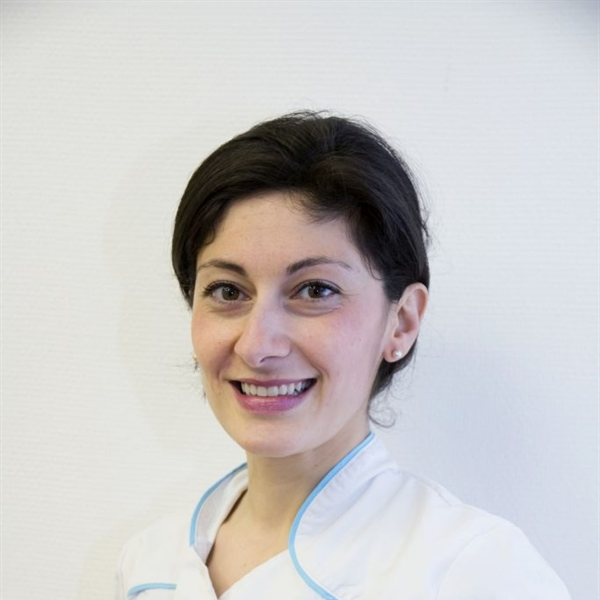
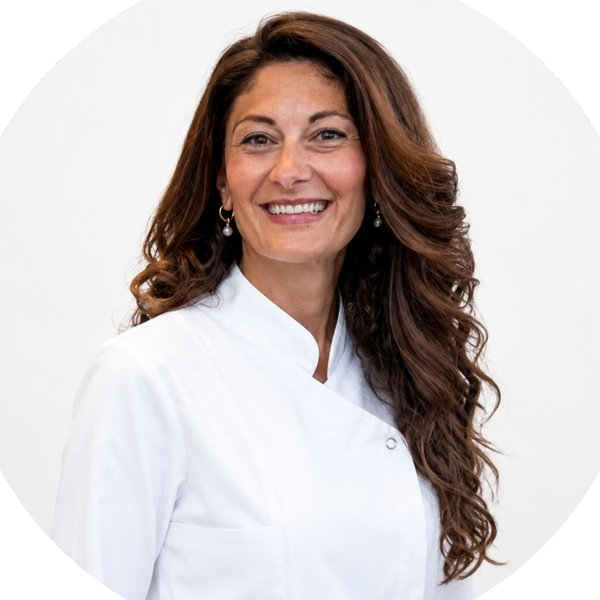
Recente updates: vrijdag bereikbaar, ronde Ceta-foto, kleinere hero-titel in primaire kleur, contactblok rechts, spoednummer 0900 1515

diff --git a/team.html b/team.html
@@ -92,7 +92,7 @@
         </article>
         <article class="team-card has-photo" data-role="hygienist" data-bio="bio-marjolijn">
           <div class="avatar"><img src="assets/img/team/marjolijn.jpg" alt="Marjolijn Bloedjes" loading="lazy" /></div>
-          <div class="info"><h4>Marjolijn Bloedjes</h4><span>Mondhygiënist</span><div class="days">Ma — Do</div></div>
+          <div class="info"><h4>Marjolijn Bloedjes</h4><span>Mondhygiënist</span><div class="days">Ma · Do</div></div>
         </article>
         <article class="team-card has-photo" data-role="hygienist" data-bio="bio-ashley">
           <div class="avatar"><img src="assets/img/team/ashley.jpg" alt="Ashley Jin" loading="lazy" /></div>
@@ -141,7 +141,7 @@
 <div class="modal-backdrop" id="bio-geert"><div class="modal"><button class="close btn btn-ghost" aria-label="Sluiten">×</button><img src="assets/img/team/geert.jpg" alt="Geert Bruins" class="bio-photo" /><span class="pill pill-mint">Tandarts</span><h3 style="margin-top:12px;">Geert Bruins</h3><p>Algemeen tandarts met ruime ervaring in restauratieve en cosmetische tandheelkunde.</p><p><strong>Aanwezig:</strong> dinsdag en vrijdag.</p></div></div>
 <div class="modal-backdrop" id="bio-claire"><div class="modal"><button class="close btn btn-ghost" aria-label="Sluiten">×</button><img src="assets/img/team/claire.jpg" alt="Claire Olthoff" class="bio-photo" /><span class="pill pill-mint">Tandarts</span><h3 style="margin-top:12px;">Claire Olthoff</h3><p>Algemeen tandarts met aandacht voor preventieve en restauratieve zorg in een ontspannen sfeer.</p><p><strong>Aanwezig:</strong> dinsdag en woensdag.</p></div></div>
 <div class="modal-backdrop" id="bio-ceta"><div class="modal"><button class="close btn btn-ghost" aria-label="Sluiten">×</button><img src="assets/img/team/ceta.jpg" alt="Ceta Cirio" class="bio-photo" /><span class="pill pill-mint">Mondhygiënist · Praktijkmanager</span><h3 style="margin-top:12px;">Ceta Cirio</h3><p>Mondhygiënist en praktijkmanager. Eerste aanspreekpunt voor de dagelijkse gang van zaken in de praktijk.</p><p><strong>Aanwezig:</strong> maandag tot en met vrijdag.</p></div></div>
-<div class="modal-backdrop" id="bio-marjolijn"><div class="modal"><button class="close btn btn-ghost" aria-label="Sluiten">×</button><img src="assets/img/team/marjolijn.jpg" alt="Marjolijn Bloedjes" class="bio-photo" /><span class="pill pill-mint">Mondhygiënist</span><h3 style="margin-top:12px;">Marjolijn Bloedjes</h3><p>Mondhygiënist met focus op preventie en initiële parodontale therapie.</p><p><strong>Aanwezig:</strong> maandag tot en met donderdag.</p></div></div>
+<div class="modal-backdrop" id="bio-marjolijn"><div class="modal"><button class="close btn btn-ghost" aria-label="Sluiten">×</button><img src="assets/img/team/marjolijn.jpg" alt="Marjolijn Bloedjes" class="bio-photo" /><span class="pill pill-mint">Mondhygiënist</span><h3 style="margin-top:12px;">Marjolijn Bloedjes</h3><p>Mondhygiënist met focus op preventie en initiële parodontale therapie.</p><p><strong>Aanwezig:</strong> maandag en donderdag.</p></div></div>
 <div class="modal-backdrop" id="bio-ashley"><div class="modal"><button class="close btn btn-ghost" aria-label="Sluiten">×</button><img src="assets/img/team/ashley.jpg" alt="Ashley Jin" class="bio-photo" /><span class="pill pill-mint">Mondhygiënist</span><h3 style="margin-top:12px;">Ashley Jin</h3><p>Mondhygiënist, verzorgt periodieke gebitsreinigingen en mondhygiëne-instructies.</p><p><strong>Aanwezig:</strong> maandag, woensdag en vrijdag.</p></div></div>
 <div class="modal-backdrop" id="bio-kirsten"><div class="modal"><button class="close btn btn-ghost" aria-label="Sluiten">×</button><img src="assets/img/team/kirsten.jpg" alt="Kirsten Pols" class="bio-photo" /><span class="pill pill-mint">Preventie-assistent</span><h3 style="margin-top:12px;">Kirsten Pols</h3><p>Preventie-assistent. Begeleidt patiënten met poetsinstructies en preventieve reiniging.</p><p><strong>Aanwezig:</strong> maandag, dinsdag en woensdag.</p></div></div>
 <div class="modal-backdrop" id="bio-nora"><div class="modal"><button class="close btn btn-ghost" aria-label="Sluiten">×</button><img src="assets/img/team/nora.jpg" alt="Nora de Haan" class="bio-photo" /><span class="pill pill-mint">Assistent</span><h3 style="margin-top:12px;">Nora de Haan</h3><p>Tandartsassistent — assisteert tijdens behandelingen en zorgt voor uw comfort in de stoel.</p><p><strong>Aanwezig:</strong> dinsdag tot en met vrijdag.</p></div></div>

diff --git a/index.html b/index.html
@@ -113,8 +113,8 @@
           <div>
             <div class="meta">Bereikbaar</div>
             <dl class="hours">
-              <div><dt>Ma — Do</dt><dd>08:00 — 12:30<br/>13:15 — 17:00</dd></div>
-              <div><dt>Vr — Zo</dt><dd>Niet bereikbaar</dd></div>
+              <div><dt>Ma — Vr</dt><dd>08:00 — 12:30<br/>13:15 — 17:00</dd></div>
+              <div><dt>Za — Zo</dt><dd>Niet bereikbaar</dd></div>
             </dl>
           </div>
         </aside>
@@ -203,7 +203,7 @@
           <article class="team-card has-photo"><div class="avatar"><img src="assets/img/team/geert.jpg" alt="Geert Bruins" loading="lazy" /></div><div class="info"><h4>Geert Bruins</h4><span>Tandarts</span><div class="days">Di · Vr</div></div></article>
           <article class="team-card has-photo"><div class="avatar"><img src="assets/img/team/claire.jpg" alt="Claire Olthoff" loading="lazy" /></div><div class="info"><h4>Claire Olthoff</h4><span>Tandarts</span><div class="days">Di · Wo</div></div></article>
           <article class="team-card has-photo"><div class="avatar"><img src="assets/img/team/ceta.jpg" alt="Ceta Cirio" loading="lazy" /></div><div class="info"><h4>Ceta Cirio</h4><span>Mondhygiënist / praktijkmanager</span><div class="days">Ma — Vr</div></div></article>
-          <article class="team-card has-photo"><div class="avatar"><img src="assets/img/team/marjolijn.jpg" alt="Marjolijn Bloedjes" loading="lazy" /></div><div class="info"><h4>Marjolijn Bloedjes</h4><span>Mondhygiënist</span><div class="days">Ma — Do</div></div></article>
+          <article class="team-card has-photo"><div class="avatar"><img src="assets/img/team/marjolijn.jpg" alt="Marjolijn Bloedjes" loading="lazy" /></div><div class="info"><h4>Marjolijn Bloedjes</h4><span>Mondhygiënist</span><div class="days">Ma · Do</div></div></article>
           <article class="team-card has-photo"><div class="avatar"><img src="assets/img/team/ashley.jpg" alt="Ashley Jin" loading="lazy" /></div><div class="info"><h4>Ashley Jin</h4><span>Mondhygiënist</span><div class="days">Ma · Wo · Vr</div></div></article>
           <article class="team-card has-photo"><div class="avatar"><img src="assets/img/team/kirsten.jpg" alt="Kirsten Pols" loading="lazy" /></div><div class="info"><h4>Kirsten Pols</h4><span>Preventie-assistent</span><div class="days">Ma · Di · Wo</div></div></article>
           <article class="team-card has-photo"><div class="avatar"><img src="assets/img/team/nora.jpg" alt="Nora de Haan" loading="lazy" /></div><div class="info"><h4>Nora de Haan</h4><span>Tandartsassistent</span><div class="days">Di — Vr</div></div></article>
@@ -227,7 +227,7 @@
           <div class="row"><dt>Adres</dt><dd>Mient 55<br/>2141 TB Vijfhuizen</dd></div>
           <div class="row"><dt>Telefoon</dt><dd><a href="tel:0235583046">023 558 30 46</a></dd></div>
           <div class="row"><dt>E-mail</dt><dd><a href="mailto:tandartsenpraktijkvijfhuizen@gmail.com">tandartsenpraktijkvijfhuizen@gmail.com</a></dd></div>
-          <div class="row"><dt>Bereikbaar</dt><dd>Ma — Do · 08:00 — 12:30 · 13:15 — 17:00<br/>Vr — Zo · Niet bereikbaar</dd></div>
+          <div class="row"><dt>Bereikbaar</dt><dd>Ma — Vr · 08:00 — 12:30 · 13:15 — 17:00<br/>Za — Zo · Niet bereikbaar</dd></div>
           <div class="row"><dt>Spoed</dt><dd>Buiten openingstijden — <a href="spoed.html">avond- en weekenddienst</a></dd></div>
         </dl>
         <div class="location-map" data-reveal="right">

diff --git a/assets/css/pages.css b/assets/css/pages.css
@@ -7,16 +7,17 @@
 }
 .hero-grid {
   display: grid;
-  grid-template-columns: 1.4fr 1fr;
+  grid-template-columns: minmax(0, 1.4fr) auto;
   gap: 64px;
   align-items: end;
   min-height: 70vh;
 }
 .hero h1 {
-  font-size: clamp(48px, 8vw, 120px);
-  line-height: .95;
+  font-size: clamp(40px, 5.5vw, 72px);
+  line-height: .98;
   letter-spacing: -.04em;
   margin-bottom: 24px;
+  color: var(--primary-700);
 }
 .hero h1 .line { display: block; overflow: hidden; }
 .hero h1 .line span { display: inline-block; }
@@ -184,19 +185,19 @@
   background: var(--paper-2);
   border-radius: var(--r-lg);
   padding: 24px;
-  aspect-ratio: 3/4;
-  display: flex; flex-direction: column; justify-content: space-between;
+  display: flex; flex-direction: column; justify-content: flex-start; gap: 20px;
   position: relative; overflow: hidden;
   transition: transform var(--t-med) var(--ease);
 }
 .team-card:hover { transform: translateY(-6px); }
 .team-card .avatar {
-  flex: 1; min-height: 0; display: grid; place-items: center; overflow: hidden;
+  flex: none; width: 100%; aspect-ratio: 1; min-height: 0; overflow: hidden;
+  display: grid; place-items: center; border-radius: 50%;
   font-family: var(--font-display); font-style: italic; font-size: 96px;
   color: var(--ink-900); opacity: .15;
 }
 .team-card.has-photo .avatar { opacity: 1; }
-.team-card.has-photo .avatar img { width: 100%; height: 100%; object-fit: cover; border-radius: var(--r-md); }
+.team-card.has-photo .avatar img { width: 100%; height: 100%; object-fit: cover; border-radius: 50%; }
 .team-card .info h4 { font-family: var(--font-display); font-size: 22px; color: var(--ink-900); margin: 0 0 4px; text-transform: none; letter-spacing: -.01em; font-weight: 400; }
 .team-card .info span { font-size: 13px; color: var(--ink-500); }
 .team-card .days { font-size: 11px; letter-spacing: .12em; text-transform: uppercase; color: var(--primary-700); margin-top: 8px; }
@@ -224,7 +225,6 @@
 .team-scroll::-webkit-scrollbar-thumb { background: var(--line-2); border-radius: 999px; }
 .team-scroll .team-card {
   flex: 0 0 calc((100% - 48px) / 4);
-  aspect-ratio: 3/4;
   scroll-snap-align: start;
 }
 .team-scroll-btn {
@@ -323,7 +323,7 @@
 .team-grid {
   display: grid; grid-template-columns: repeat(3, 1fr); gap: 24px;
 }
-.team-grid .team-card { aspect-ratio: 4/5; }
+.team-grid .team-card { aspect-ratio: auto; }
 @media (max-width: 900px) { .team-grid { grid-template-columns: 1fr 1fr; } }
 @media (max-width: 600px) { .team-grid { grid-template-columns: 1fr; } }
 
@@ -718,7 +718,7 @@ iframe { max-width: 100%; }
 /* Tablet (≤1024px) */
 @media (max-width: 1024px) {
   .hero-grid { gap: 40px; }
-  .hero h1 { font-size: clamp(40px, 7vw, 84px); }
+  .hero h1 { font-size: clamp(36px, 6vw, 60px); }
   .feature-2col { gap: 48px; }
   .stats { grid-template-columns: repeat(2, 1fr); }
   .location-info .row { grid-template-columns: 100px 1fr; gap: 16px; }

diff --git a/spoed.html b/spoed.html
@@ -64,14 +64,14 @@
         <h2 style="margin:0;">Bel direct onze praktijk.</h2>
         <p style="margin:0;color:var(--ink-700);">Bij spoed proberen wij u dezelfde dag nog te helpen. Bel zo vroeg mogelijk — de balie plant u dan in op een spoedmoment.</p>
         <a class="phone-big" href="tel:0235583046">023 558 30 46</a>
-        <p style="margin:0;color:var(--ink-500);font-size:14px;">Maandag t/m donderdag · 08:00 — 12:30 · 13:15 — 17:00</p>
+        <p style="margin:0;color:var(--ink-500);font-size:14px;">Maandag t/m vrijdag · 08:00 — 12:30 · 13:15 — 17:00</p>
       </div>
 
       <div class="emergency-card" data-reveal style="border-left-color:var(--primary);">
         <span class="eyebrow" style="color:var(--primary);">Buiten openingstijden — avond, nacht &amp; weekend</span>
         <h2 style="margin:0;">De Mondzorgpoli Amsterdam.</h2>
         <p style="margin:0;color:var(--ink-700);">Voor spoedgevallen 's avonds, 's nachts of in het weekend kunt u terecht bij de regionale spoeddienst De Mondzorgpoli in Amsterdam. Bel altijd eerst voor een afspraak.</p>
-        <a class="phone-big" href="tel:0882632727">088 263 27 27</a>
+        <a class="phone-big" href="tel:09001515">0900 1515</a>
         <dl style="display:grid;gap:8px;margin:0;font-size:15px;">
           <div style="display:grid;grid-template-columns:140px 1fr;gap:8px;"><dt style="color:var(--ink-500);">Adres</dt><dd style="margin:0;">Louwesweg 6, 1066 EC Amsterdam</dd></div>
           <div style="display:grid;grid-template-columns:140px 1fr;gap:8px;"><dt style="color:var(--ink-500);">E-mail</dt><dd style="margin:0;"><a href="mailto:amsterdam@mondzorgpoli.nl" style="color:var(--primary);">amsterdam@mondzorgpoli.nl</a></dd></div>
@@ -110,7 +110,7 @@
         </div>
         <div class="actions">
           <a class="btn btn-emerg" href="tel:0235583046">023 558 30 46 <span class="arr">→</span></a>
-          <a class="btn btn-mint" href="tel:0882632727">Spoeddienst Amsterdam</a>
+          <a class="btn btn-mint" href="tel:09001515">Spoeddienst Amsterdam</a>
         </div>
       </div>
     </div>

diff --git a/afspraken.html b/afspraken.html
@@ -62,15 +62,15 @@
         <div data-reveal>
           <span class="eyebrow">Bel ons</span>
           <h2 style="font-size:clamp(40px,6vw,72px);"><a href="tel:0235583046" style="color:var(--primary);">023 558 30 46</a></h2>
-          <p class="lead">Wij zijn telefonisch bereikbaar van maandag tot en met donderdag van 08:00 tot 12:30 uur en van 13:15 tot 17:00 uur. Op vrijdag, zaterdag en zondag zijn wij niet bereikbaar.</p>
+          <p class="lead">Wij zijn telefonisch bereikbaar van maandag tot en met vrijdag van 08:00 tot 12:30 uur en van 13:15 tot 17:00 uur. Op zaterdag en zondag zijn wij niet bereikbaar.</p>
           <a class="btn btn-primary" href="tel:0235583046">Direct bellen <span class="arr">→</span></a>
         </div>
         <div data-reveal="right">
           <div class="card" style="padding:40px;">
             <span class="eyebrow">Bereikbaar</span>
             <dl class="hours" style="display:grid;gap:12px;font-size:16px;margin-top:16px;">
-              <div style="display:flex;justify-content:space-between;border-bottom:1px solid var(--line);padding:12px 0;"><dt>Maandag t/m donderdag</dt><dd>08:00 — 12:30 · 13:15 — 17:00</dd></div>
-              <div style="display:flex;justify-content:space-between;padding:12px 0;color:var(--ink-500);"><dt>Vr / Za / Zo</dt><dd>Niet bereikbaar</dd></div>
+              <div style="display:flex;justify-content:space-between;border-bottom:1px solid var(--line);padding:12px 0;"><dt>Maandag t/m vrijdag</dt><dd>08:00 — 12:30 · 13:15 — 17:00</dd></div>
+              <div style="display:flex;justify-content:space-between;padding:12px 0;color:var(--ink-500);"><dt>Za / Zo</dt><dd>Niet bereikbaar</dd></div>
             </dl>
           </div>
         </div>

diff --git a/contact.html b/contact.html
@@ -63,7 +63,7 @@
           <div class="row"><dt>Adres</dt><dd>Mient 55<br/>2141 TB Vijfhuizen</dd></div>
           <div class="row"><dt>Telefoon</dt><dd><a href="tel:0235583046">023 558 30 46</a></dd></div>
           <div class="row"><dt>E-mail</dt><dd><a href="mailto:tandartsenpraktijkvijfhuizen@gmail.com">tandartsenpraktijkvijfhuizen@<br/>gmail.com</a></dd></div>
-          <div class="row"><dt>Bereikbaar</dt><dd>Ma — Do · 08:00 — 12:30 · 13:15 — 17:00<br/>Vr — Zo · Niet bereikbaar</dd></div>
+          <div class="row"><dt>Bereikbaar</dt><dd>Ma — Vr · 08:00 — 12:30 · 13:15 — 17:00<br/>Za — Zo · Niet bereikbaar</dd></div>
           <div class="row"><dt>Spoed</dt><dd>Buiten openingstijden — <a href="spoed.html">avond- en weekenddienst</a></dd></div>
         </dl>
         <div class="location-map" data-reveal="right">
